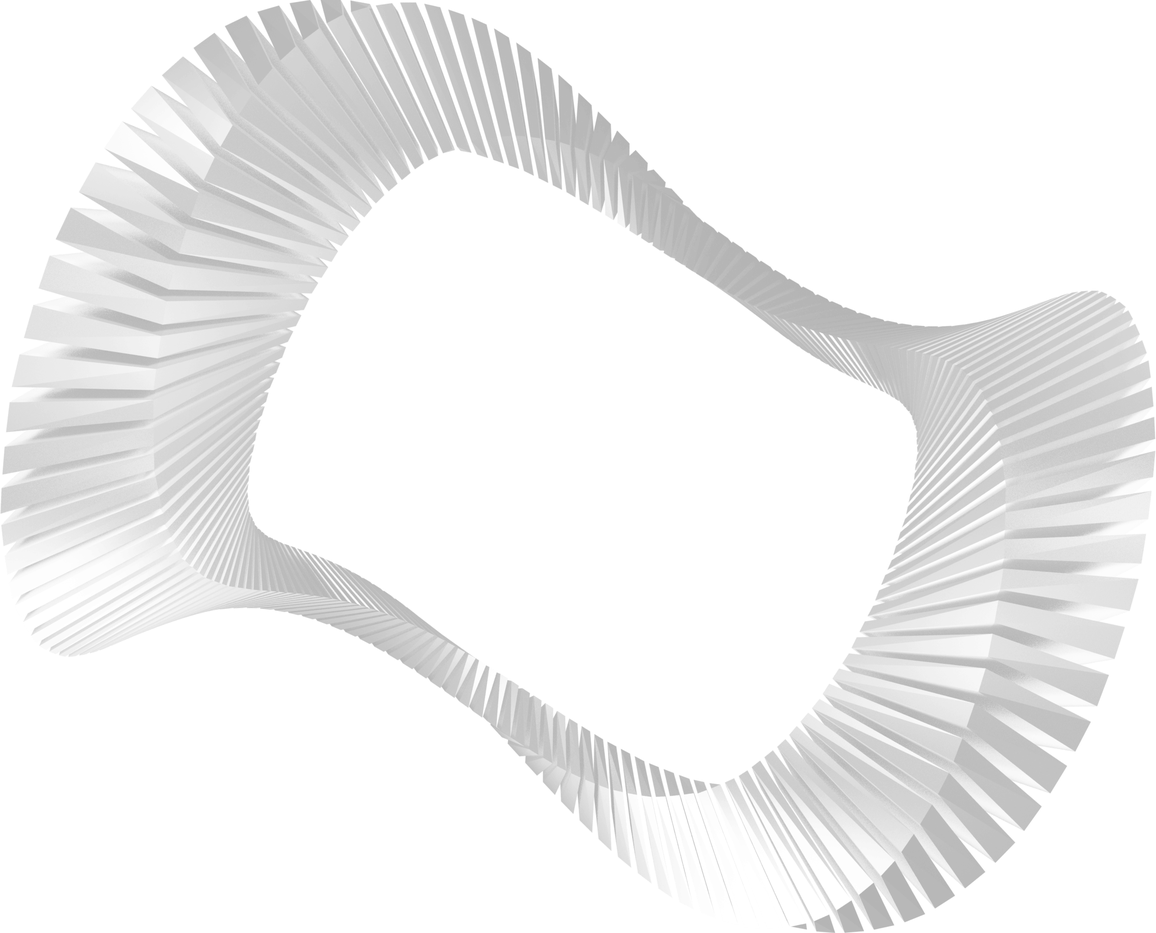
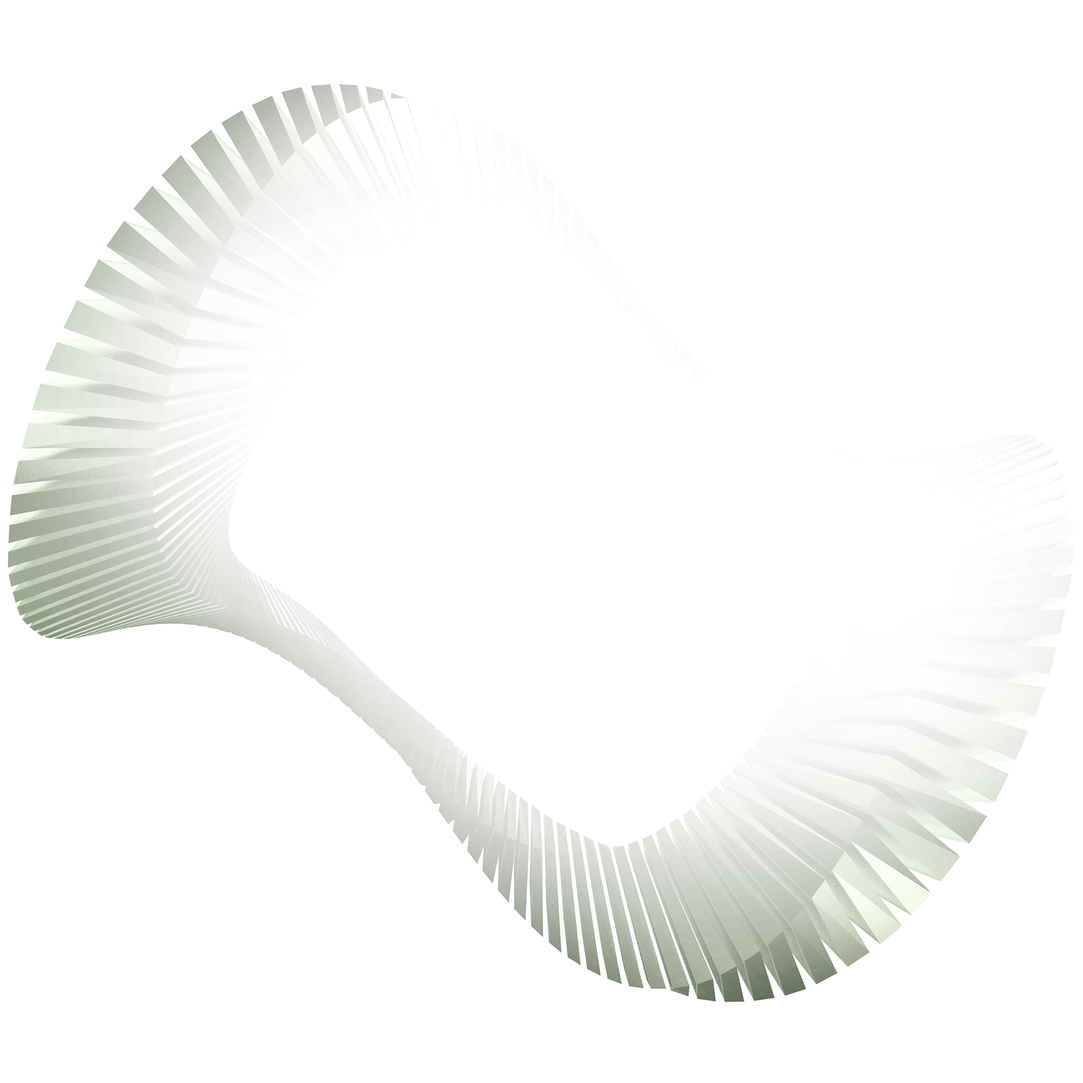
feat: intro section

Changed region(s): [[0.0, 0.0, 1.0, 1.0]]

diff --git a/components/data-programs-logo.vue b/components/data-programs-logo.vue
@@ -1,28 +1,28 @@
 <template>
 <svg width="123" height="30" viewBox="0 0 123 30" fill="none" xmlns="http://www.w3.org/2000/svg">
-<path fill-rule="evenodd" clip-rule="evenodd" d="M12.0241 29.0845L11.3726 29.0845L11.3726 14.0609C11.3726 14.0609 11.3726 14.0609 11.3726 14.0609C11.3726 13.9321 11.3978 13.8045 11.4469 13.6857C11.496 13.5668 11.5679 13.459 11.6585 13.3683C11.7491 13.2777 11.8565 13.2062 11.9747 13.1578C12.0922 13.1096 12.218 13.0854 12.3449 13.0865L15.6779 13.0865C15.8048 13.0854 15.9306 13.1096 16.0481 13.1578C16.1663 13.2062 16.2738 13.2777 16.3643 13.3683C16.4549 13.459 16.5268 13.5668 16.5759 13.6857C16.625 13.8045 16.6503 13.932 16.6503 14.0608C16.6503 14.0608 16.6503 14.0608 16.6503 14.0608L16.6503 17.3938L16.6502 17.3954C16.6477 17.6539 16.5442 17.9009 16.3624 18.0827C16.1807 18.2645 15.9352 18.3665 15.6794 18.3665L15.6786 18.3665L13.1887 18.3533L13.1921 17.695L15.6794 17.7081C15.6797 17.7081 15.6799 17.7081 15.6802 17.7081C15.764 17.7079 15.8445 17.6744 15.9041 17.6148C15.9635 17.5553 15.9975 17.4746 15.9987 17.3901L15.9987 14.0608C15.9987 14.0191 15.9905 13.9777 15.9746 13.9391C15.9587 13.9006 15.9353 13.8656 15.906 13.8362C15.8766 13.8068 15.8417 13.7836 15.8034 13.7679C15.7651 13.7522 15.7241 13.7444 15.6827 13.7448L15.6811 13.7448L12.3417 13.7448L12.3401 13.7448C12.2987 13.7444 12.2577 13.7522 12.2194 13.7679C12.1811 13.7836 12.1462 13.8068 12.1168 13.8362C12.0875 13.8656 12.0641 13.9006 12.0482 13.9391C12.0323 13.9777 12.0241 14.0191 12.0241 14.0608L12.0241 29.0845Z" fill="#CBDDBB"/>
-<path fill-rule="evenodd" clip-rule="evenodd" d="M9.0727 12.0098L9.0727 29.0845L8.4126 29.0845L8.4126 12.0098C8.4126 11.7613 8.4616 11.5153 8.55681 11.2857C8.65202 11.0562 8.79156 10.8476 8.96748 10.6719C9.1434 10.4962 9.35225 10.3568 9.5821 10.2618C9.81195 10.1667 10.0583 10.1177 10.3071 10.1177L17.5683 10.1177C17.8171 10.1177 18.0634 10.1667 18.2933 10.2618C18.5231 10.3568 18.732 10.4962 18.9079 10.6719C19.0838 10.8476 19.2234 11.0562 19.3186 11.2857C19.4138 11.5153 19.4628 11.7613 19.4628 12.0098L19.4628 19.1495C19.4628 19.6531 19.2625 20.136 18.906 20.4921C18.5494 20.8481 18.0659 21.0482 17.5617 21.0482L17.5602 21.0482L13.0503 21.0086L13.056 20.3494L17.5617 20.3889C17.5621 20.3889 17.5626 20.3889 17.563 20.3889C17.8917 20.3886 18.2068 20.258 18.4392 20.0259C18.6719 19.7935 18.8027 19.4782 18.8027 19.1495L18.8027 12.0098C18.8027 11.8479 18.7707 11.6876 18.7087 11.538C18.6467 11.3885 18.5558 11.2526 18.4411 11.1381C18.3265 11.0236 18.1904 10.9328 18.0407 10.8708C17.8909 10.8089 17.7304 10.777 17.5683 10.777L10.3071 10.777C10.145 10.777 9.98448 10.8089 9.83472 10.8708C9.68495 10.9328 9.54887 11.0236 9.43425 11.1381C9.31963 11.2525 9.2287 11.3884 9.16667 11.538C9.10463 11.6876 9.0727 11.8479 9.0727 12.0098Z" fill="#CBDDBB"/>
-<path fill-rule="evenodd" clip-rule="evenodd" d="M6.26714 9.96109L6.26714 29.0845L5.61133 29.0845L5.61133 9.96109C5.61133 9.21529 5.90567 8.50003 6.42961 7.97266C6.95354 7.4453 7.66415 7.14903 8.4051 7.14903L19.4753 7.14903L19.4762 7.14903C20.2163 7.151 20.9255 7.44781 21.4489 7.97459C21.9722 8.50136 22.2671 9.21525 22.2691 9.96022L22.2691 9.96109L22.2691 20.9255L22.2691 20.9264C22.2681 21.2965 22.1947 21.6629 22.0531 22.0045C21.9114 22.3461 21.7044 22.6563 21.4436 22.9173C21.1829 23.1783 20.8736 23.3851 20.5335 23.5259C20.1934 23.6666 19.8291 23.7386 19.4613 23.7376L19.4604 23.7376L13.1243 23.6848L13.1297 23.0247L19.4631 23.0775C19.4634 23.0775 19.4637 23.0775 19.464 23.0775C19.7453 23.0781 20.024 23.023 20.2842 22.9154C20.5446 22.8076 20.7815 22.6492 20.9811 22.4493C21.1808 22.2494 21.3394 22.0119 21.4478 21.7503C21.5563 21.4888 21.6125 21.2084 21.6133 20.925C21.6133 20.9249 21.6133 20.9248 21.6133 20.9246L21.6133 9.96197C21.6133 9.96184 21.6133 9.96172 21.6133 9.9616C21.6117 9.39123 21.3858 8.84467 20.9852 8.44136C20.5845 8.03812 20.0417 7.81084 19.4751 7.80914C19.4749 7.80914 19.4747 7.80914 19.4744 7.80914L8.4051 7.80914C7.83808 7.80914 7.29429 8.03586 6.89334 8.43943C6.49239 8.843 6.26714 9.39036 6.26714 9.96109Z" fill="#CBDDBB"/>
-<path fill-rule="evenodd" clip-rule="evenodd" d="M3.68493 6.88992C3.53247 7.26091 3.4544 7.65844 3.45517 8.05976L3.45518 29.0845L2.80128 29.0845L2.80127 8.06072C2.80037 7.5732 2.89524 7.09029 3.08044 6.63961C3.26569 6.18883 3.53768 5.77915 3.88084 5.43401C4.22401 5.08888 4.6316 4.81506 5.08031 4.62824C5.52902 4.44141 6.01003 4.34525 6.49581 4.34525L21.372 4.34525C21.8578 4.34525 22.3388 4.44141 22.7875 4.62824C23.2362 4.81506 23.6438 5.08887 23.987 5.43401C24.3302 5.77915 24.6022 6.18883 24.7874 6.63961C24.9727 7.09039 25.0675 7.57341 25.0666 8.06103L25.0666 22.7438C25.0666 23.232 24.9705 23.7154 24.784 24.1663C24.5974 24.6172 24.324 25.0267 23.9794 25.3712C23.6348 25.7158 23.2258 25.9887 22.7759 26.1742C22.326 26.3597 21.8441 26.4543 21.3577 26.4524L21.357 26.4524L13.0715 26.3867L13.0766 25.7303L21.3602 25.796C21.3604 25.796 21.3607 25.796 21.3609 25.796C21.7609 25.7975 22.1574 25.7197 22.5275 25.5671C22.8977 25.4144 23.2343 25.1898 23.5179 24.9062C23.8015 24.6226 24.0265 24.2856 24.1801 23.9145C24.3336 23.5435 24.4127 23.1456 24.4127 22.7438L24.4127 8.05976C24.4134 7.65844 24.3354 7.26091 24.1829 6.88991C24.0305 6.51892 23.8066 6.18175 23.5242 5.8977C23.2417 5.61365 22.9063 5.3883 22.537 5.23454C22.1677 5.08078 21.7718 5.00164 21.372 5.00164L6.49581 5.00164C6.09601 5.00164 5.70013 5.08078 5.33084 5.23454C4.96155 5.38829 4.6261 5.61365 4.34367 5.8977C4.06124 6.18175 3.83739 6.51892 3.68493 6.88992Z" fill="#CBDDBB"/>
-<path fill-rule="evenodd" clip-rule="evenodd" d="M0.950929 4.48253C0.753192 4.96392 0.651818 5.47978 0.652611 6.00059L0.652612 29.0254L4.96402e-06 29.0254L3.9576e-06 6.00132C-0.000883917 5.39437 0.117273 4.79321 0.347713 4.2322C0.578186 3.6711 0.916454 3.16118 1.34317 2.73162C1.76989 2.30205 2.27668 1.96126 2.83455 1.72874C3.39242 1.49623 3.99042 1.37654 4.59435 1.37654L23.2785 1.37654C23.8824 1.37654 24.4804 1.49622 25.0383 1.72874C25.5962 1.96126 26.103 2.30205 26.5297 2.73161C26.9564 3.16118 27.2947 3.6711 27.5251 4.2322C27.7556 4.79329 27.8738 5.39455 27.8728 6.00159L27.8729 24.4599C27.8729 25.0684 27.7534 25.6709 27.5213 26.2329C27.2892 26.7949 26.949 27.3053 26.5203 27.735C26.0916 28.1646 25.5827 28.5049 25.0229 28.7365C24.4631 28.9681 23.8633 29.0863 23.2579 29.0845L23.257 29.0844L12.7361 28.9926L12.7417 28.3367L23.2599 28.4285C23.2602 28.4285 23.2605 28.4285 23.2608 28.4285C23.78 28.43 24.2944 28.3285 24.7746 28.1299C25.255 27.9312 25.6917 27.6391 26.0596 27.2704C26.4275 26.9017 26.7194 26.4637 26.9185 25.9814C27.1177 25.4991 27.2202 24.9821 27.2202 24.4599L27.2202 6.00058C27.221 5.47978 27.1197 4.96392 26.9219 4.48253C26.7242 4.00113 26.434 3.56365 26.0679 3.1951C25.7018 2.82655 25.267 2.53417 24.7883 2.33468C24.3097 2.13519 23.7966 2.03251 23.2785 2.03251L4.59435 2.03251C4.07621 2.03251 3.56315 2.13519 3.08452 2.33468C2.6059 2.53417 2.17109 2.82655 1.80499 3.1951C1.43888 3.56364 1.14867 4.00113 0.950929 4.48253Z" fill="#CBDDBB"/>
-<path d="M46.4614 3.86912L43.6322 1.03999C43.5854 0.992179 43.5216 0.96482 43.4546 0.963867H37.2762C37.2429 0.963867 37.2099 0.97043 37.1791 0.983181C37.1483 0.995932 37.1203 1.01462 37.0968 1.03818C37.0732 1.06175 37.0545 1.08972 37.0418 1.1205C37.029 1.15129 37.0225 1.18428 37.0225 1.2176V13.3334C37.0225 13.4007 37.0492 13.4652 37.0968 13.5128C37.1444 13.5604 37.2089 13.5871 37.2762 13.5871H46.2838C46.3511 13.5871 46.4156 13.5604 46.4632 13.5128C46.5108 13.4652 46.5375 13.4007 46.5375 13.3334V4.04674C46.5365 3.97981 46.5092 3.91597 46.4614 3.86912ZM44.5711 11.1132C44.5711 11.2815 44.5042 11.4428 44.3853 11.5618C44.2663 11.6807 44.105 11.7476 43.9367 11.7476H39.5598C39.3926 11.7443 39.2331 11.6764 39.1149 11.5582C38.9966 11.4399 38.9287 11.2805 38.9255 11.1132V3.50121C38.9255 3.33297 38.9923 3.17163 39.1113 3.05267C39.2302 2.9337 39.3916 2.86687 39.5598 2.86687H43.9367C44.105 2.86687 44.2663 2.9337 44.3853 3.05267C44.5042 3.17163 44.5711 3.33297 44.5711 3.50121V11.1132Z" fill="#CBDDBB"/>
-<path d="M59.3384 1.04063L58.7294 1.64959C58.6816 1.69644 58.6543 1.76028 58.6533 1.82721V2.48692C58.6533 2.55421 58.6801 2.61875 58.7276 2.66634C58.7752 2.71392 58.8398 2.74065 58.9071 2.74065H61.7616C61.9298 2.74065 62.0911 2.80748 62.2101 2.92644C62.3291 3.04541 62.3959 3.20675 62.3959 3.37499V13.2706C62.3959 13.3379 62.4226 13.4025 62.4702 13.45C62.5178 13.4976 62.5823 13.5244 62.6496 13.5244H64.0452C64.1125 13.5244 64.177 13.4976 64.2246 13.45C64.2722 13.4025 64.2989 13.3379 64.2989 13.2706V3.37499C64.2989 3.20675 64.3657 3.04541 64.4847 2.92644C64.6037 2.80748 64.765 2.74065 64.9332 2.74065H67.7878C67.855 2.74065 67.9196 2.71392 67.9672 2.66634C68.0148 2.61875 68.0415 2.55421 68.0415 2.48692V1.82721C68.0405 1.76028 68.0132 1.69644 67.9654 1.64959L67.3564 1.04063C67.3096 0.992825 67.2457 0.965466 67.1788 0.964513H59.5287C59.4934 0.963269 59.4583 0.969396 59.4255 0.982503C59.3928 0.99561 59.3631 1.01541 59.3384 1.04063Z" fill="#CBDDBB"/>
-<path d="M57.3685 3.86928L54.5393 1.04014C54.4925 0.992337 54.4286 0.964978 54.3617 0.964025H50.7079C50.6727 0.962781 50.6375 0.968908 50.6048 0.982015C50.572 0.995122 50.5423 1.01492 50.5176 1.04014L47.8154 3.86928C47.7676 3.91613 47.7402 3.97997 47.7393 4.04689V13.3336C47.7393 13.4009 47.766 13.4654 47.8136 13.513C47.8612 13.5606 47.9257 13.5873 47.993 13.5873H49.452C49.5193 13.5873 49.5838 13.5606 49.6314 13.513C49.679 13.4654 49.7057 13.4009 49.7057 13.3336V9.27382H55.2879V13.3336C55.2879 13.4009 55.3146 13.4654 55.3622 13.513C55.4098 13.5606 55.4743 13.5873 55.5416 13.5873H57.1909C57.2582 13.5873 57.3227 13.5606 57.3703 13.513C57.4179 13.4654 57.4446 13.4009 57.4446 13.3336V4.04689C57.4436 3.97997 57.4163 3.91613 57.3685 3.86928ZM49.7057 7.24395V3.5648C49.7057 3.39656 49.7725 3.23522 49.8915 3.11626C50.0105 2.9973 50.1718 2.93046 50.34 2.93046H54.6535C54.8218 2.93046 54.9831 2.9973 55.1021 3.11626C55.221 3.23522 55.2879 3.39656 55.2879 3.5648V7.24395H49.7057Z" fill="#CBDDBB"/>
-<path d="M79.0179 3.86928L76.1887 1.04014C76.1419 0.992337 76.0781 0.964978 76.0111 0.964025H72.3574C72.3221 0.962781 72.287 0.968908 72.2542 0.982015C72.2214 0.995122 72.1917 1.01492 72.1671 1.04014L69.4648 3.86928C69.417 3.91613 69.3896 3.97997 69.3887 4.04689V13.3336C69.3887 13.4009 69.4154 13.4654 69.463 13.513C69.5106 13.5606 69.5751 13.5873 69.6424 13.5873H71.1014C71.1687 13.5873 71.2332 13.5606 71.2808 13.513C71.3284 13.4654 71.3551 13.4009 71.3551 13.3336V9.27382H76.9373V13.3336C76.9373 13.4009 76.964 13.4654 77.0116 13.513C77.0592 13.5606 77.1237 13.5873 77.191 13.5873H78.8403C78.9076 13.5873 78.9721 13.5606 79.0197 13.513C79.0673 13.4654 79.094 13.4009 79.094 13.3336V4.04689C79.0931 3.97997 79.0657 3.91613 79.0179 3.86928ZM71.3551 7.24395V3.5648C71.3551 3.39656 71.4219 3.23522 71.5409 3.11626C71.6599 2.9973 71.8212 2.93046 71.9894 2.93046H76.3029C76.4712 2.93046 76.6325 2.9973 76.7515 3.11626C76.8704 3.23522 76.9373 3.39656 76.9373 3.5648V7.24395H71.3551Z" fill="#CBDDBB"/>
-<g clip-path="url(#clip0_1209_457)">
-<path d="M100.443 19.2207L97.6136 16.3915C97.5667 16.3437 97.5029 16.3164 97.4359 16.3154H93.6807C93.6464 16.3291 93.6159 16.3509 93.5919 16.3789L90.8896 19.2207C90.8418 19.2675 90.8144 19.3314 90.8135 19.3983V28.685C90.8166 28.7513 90.8443 28.814 90.8912 28.861C90.9382 28.9079 91.0009 28.9356 91.0672 28.9387H92.5262C92.5925 28.9356 92.6552 28.9079 92.7022 28.861C92.7491 28.814 92.7768 28.7513 92.7799 28.685V24.6252H98.3621V28.685C98.3652 28.7513 98.3929 28.814 98.4398 28.861C98.4867 28.9079 98.5495 28.9356 98.6158 28.9387H100.265C100.331 28.9356 100.394 28.9079 100.441 28.861C100.488 28.814 100.516 28.7513 100.519 28.685V19.3983C100.518 19.3314 100.49 19.2675 100.443 19.2207ZM92.7799 22.5954V18.9162C92.7789 18.833 92.7953 18.7505 92.8281 18.6741C92.8609 18.5976 92.9093 18.5288 92.9702 18.4722C93.0269 18.4112 93.0956 18.3628 93.1721 18.33C93.2486 18.2973 93.3311 18.2809 93.4143 18.2819H97.7277C97.8109 18.2809 97.8934 18.2973 97.9699 18.33C98.0464 18.3628 98.1151 18.4112 98.1718 18.4722C98.2327 18.5288 98.2811 18.5976 98.3139 18.6741C98.3467 18.7505 98.3631 18.833 98.3621 18.9162V22.5954H92.7799Z" fill="#CBDDBB"/>
-<path d="M46.4614 19.2207L43.6322 16.3915C43.5854 16.3437 43.5216 16.3164 43.4546 16.3154H37.2762C37.2089 16.3154 37.1444 16.3422 37.0968 16.3897C37.0492 16.4373 37.0225 16.5019 37.0225 16.5692V28.685C37.0225 28.7523 37.0492 28.8168 37.0968 28.8644C37.1444 28.912 37.2089 28.9387 37.2762 28.9387H38.7352C38.8025 28.9387 38.867 28.912 38.9146 28.8644C38.9622 28.8168 38.9889 28.7523 38.9889 28.685V24.879C38.9889 24.8117 39.0156 24.7471 39.0632 24.6995C39.1108 24.652 39.1753 24.6252 39.2426 24.6252H46.2838C46.3511 24.6252 46.4156 24.5985 46.4632 24.5509C46.5108 24.5033 46.5375 24.4388 46.5375 24.3715V19.3983C46.5365 19.3314 46.5092 19.2675 46.4614 19.2207ZM44.6979 22.4051C44.6979 22.4723 44.6712 22.5369 44.6236 22.5845C44.576 22.6321 44.5115 22.6588 44.4442 22.6588H39.2426C39.1753 22.6588 39.1108 22.6321 39.0632 22.5845C39.0156 22.5369 38.9889 22.4723 38.9889 22.4051V18.5356C38.9889 18.4683 39.0156 18.4038 39.0632 18.3562C39.1108 18.3086 39.1753 18.2819 39.2426 18.2819H44.4442C44.5115 18.2819 44.576 18.3086 44.6236 18.3562C44.6712 18.4038 44.6979 18.4683 44.6979 18.5356V22.4051Z" fill="#CBDDBB"/>
-<path d="M57.2461 21.9737C57.2939 21.9269 57.3213 21.8631 57.3222 21.7961V19.3349C57.3213 19.268 57.2939 19.2041 57.2461 19.1573L54.5438 16.455C54.497 16.4072 54.4331 16.3799 54.3662 16.3789H48.1243C48.057 16.3789 47.9925 16.4056 47.9449 16.4532C47.8973 16.5008 47.8706 16.5653 47.8706 16.6326V28.7484C47.8706 28.8157 47.8973 28.8803 47.9449 28.9279C47.9925 28.9755 48.057 29.0022 48.1243 29.0022H49.5199C49.5872 29.0022 49.6517 28.9755 49.6993 28.9279C49.7469 28.8803 49.7736 28.8157 49.7736 28.7484V24.8156C49.7736 24.7483 49.8003 24.6837 49.8479 24.6362C49.8955 24.5886 49.9601 24.5618 50.0273 24.5618H51.8289C51.8958 24.5628 51.9596 24.5901 52.0065 24.638L56.2946 28.9261C56.3414 28.9739 56.4053 29.0012 56.4722 29.0022H57.0685C57.1358 29.0022 57.2003 28.9755 57.2479 28.9279C57.2955 28.8803 57.3222 28.8157 57.3222 28.7484V27.2007C57.3213 27.1337 57.2939 27.0699 57.2461 27.0231L54.9625 24.7394C54.9143 24.6937 54.8859 24.6309 54.8835 24.5644C54.8812 24.498 54.905 24.4333 54.9498 24.3842L57.2461 21.9737ZM50.0273 22.6588C49.9601 22.6588 49.8955 22.6321 49.8479 22.5845C49.8003 22.5369 49.7736 22.4724 49.7736 22.4051V18.4722C49.7736 18.4049 49.8003 18.3404 49.8479 18.2928C49.8955 18.2452 49.9601 18.2185 50.0273 18.2185H55.1655C55.2328 18.2185 55.2973 18.2452 55.3449 18.2928C55.3925 18.3404 55.4192 18.4049 55.4192 18.4722V22.4051C55.4192 22.4724 55.3925 22.5369 55.3449 22.5845C55.2973 22.6321 55.2328 22.6588 55.1655 22.6588H50.0273Z" fill="#CBDDBB"/>
-<path d="M89.5376 21.9737C89.5854 21.9269 89.6128 21.8631 89.6137 21.7961V19.3349C89.6128 19.268 89.5854 19.2041 89.5376 19.1573L86.8353 16.455C86.7885 16.4072 86.7246 16.3799 86.6577 16.3789H80.4158C80.3485 16.3789 80.284 16.4056 80.2364 16.4532C80.1888 16.5008 80.1621 16.5653 80.1621 16.6326V28.7484C80.1621 28.8157 80.1888 28.8803 80.2364 28.9279C80.284 28.9755 80.3485 29.0022 80.4158 29.0022H81.8114C81.8787 29.0022 81.9432 28.9755 81.9908 28.9279C82.0384 28.8803 82.0651 28.8157 82.0651 28.7484V24.8156C82.0651 24.7483 82.0918 24.6837 82.1394 24.6362C82.187 24.5886 82.2516 24.5618 82.3189 24.5618H84.1204C84.1873 24.5628 84.2511 24.5901 84.298 24.638L88.5861 28.9261C88.6329 28.9739 88.6968 29.0012 88.7637 29.0022H89.36C89.4273 29.0022 89.4918 28.9755 89.5394 28.9279C89.587 28.8803 89.6137 28.8157 89.6137 28.7484V27.2007C89.6128 27.1337 89.5854 27.0699 89.5376 27.0231L87.254 24.7394C87.2058 24.6937 87.1774 24.6309 87.175 24.5644C87.1727 24.498 87.1965 24.4333 87.2413 24.3842L89.5376 21.9737ZM82.3189 22.6588C82.2516 22.6588 82.187 22.6321 82.1394 22.5845C82.0918 22.5369 82.0651 22.4724 82.0651 22.4051V18.4722C82.0651 18.4049 82.0918 18.3404 82.1394 18.2928C82.187 18.2452 82.2516 18.2185 82.3189 18.2185H87.457C87.5243 18.2185 87.5888 18.2452 87.6364 18.2928C87.684 18.3404 87.7107 18.4049 87.7107 18.4722V22.4051C87.7107 22.4724 87.684 22.5369 87.6364 22.5845C87.5888 22.6321 87.5243 22.6588 87.457 22.6588H82.3189Z" fill="#CBDDBB"/>
-<path d="M68.0263 19.2207L65.1972 16.3915C65.1503 16.3437 65.0865 16.3164 65.0196 16.3154H61.48C61.413 16.3164 61.3492 16.3437 61.3024 16.3915L58.6635 19.0304C58.6157 19.0772 58.5884 19.1411 58.5874 19.208V26.1096C58.5884 26.1765 58.6157 26.2403 58.6635 26.2872L61.3024 28.926C61.3492 28.9738 61.413 29.0012 61.48 29.0021H65.3367C65.4037 29.0012 65.4675 28.9738 65.5143 28.926L68.0263 26.4141C68.0741 26.3672 68.1015 26.3034 68.1024 26.2364V19.3983C68.1015 19.3314 68.0741 19.2675 68.0263 19.2207ZM66.1994 26.782C66.1994 26.8493 66.1727 26.9138 66.1251 26.9614C66.0775 27.009 66.013 27.0357 65.9457 27.0357H60.7441C60.6768 27.0357 60.6123 27.009 60.5647 26.9614C60.5171 26.9138 60.4904 26.8493 60.4904 26.782V18.5356C60.4904 18.4683 60.5171 18.4038 60.5647 18.3562C60.6123 18.3086 60.6768 18.2819 60.7441 18.2819H65.9457C66.013 18.2819 66.0775 18.3086 66.1251 18.3562C66.1727 18.4038 66.1994 18.4683 66.1994 18.5356V26.782Z" fill="#CBDDBB"/>
-<path d="M119.737 24.6252H112.632C112.565 24.6252 112.5 24.5985 112.453 24.5509C112.405 24.5033 112.378 24.4388 112.378 24.3715V19.4617C112.379 19.3948 112.407 19.331 112.455 19.2841L115.347 16.3915C115.394 16.3437 115.458 16.3164 115.525 16.3154H121.767C121.834 16.3154 121.898 16.3422 121.946 16.3897C121.994 16.4373 122.02 16.5019 122.02 16.5692V18.0281C122.02 18.0954 121.994 18.16 121.946 18.2076C121.898 18.2551 121.834 18.2819 121.767 18.2819H114.662C114.595 18.2819 114.53 18.3086 114.483 18.3562C114.435 18.4038 114.408 18.4683 114.408 18.5356V22.4051C114.408 22.4723 114.435 22.5369 114.483 22.5845C114.53 22.6321 114.595 22.6588 114.662 22.6588H121.767C121.834 22.6588 121.898 22.6855 121.946 22.7331C121.994 22.7807 122.02 22.8452 122.02 22.9125V28.7484C122.02 28.8157 121.994 28.8802 121.946 28.9278C121.898 28.9754 121.834 29.0021 121.767 29.0021H112.632C112.565 29.0021 112.5 28.9754 112.453 28.9278C112.405 28.8802 112.378 28.8157 112.378 28.7484V27.3529C112.378 27.2856 112.405 27.221 112.453 27.1735C112.5 27.1259 112.565 27.0991 112.632 27.0991H119.737C119.804 27.0991 119.869 27.0724 119.916 27.0248C119.964 26.9772 119.99 26.9127 119.99 26.8454V24.879C119.99 24.8117 119.964 24.7471 119.916 24.6995C119.869 24.652 119.804 24.6252 119.737 24.6252Z" fill="#CBDDBB"/>
-<path d="M69.3794 27.1286V20.0746C69.3794 19.5364 69.5963 19.0209 69.9812 18.6446L71.651 17.0119C72.0247 16.6465 72.5265 16.4419 73.0492 16.4419H77.0549C78.0708 16.4419 78.8944 17.2655 78.8944 18.2815V19.1695C78.8944 19.695 78.4684 20.121 77.9429 20.121H77.8795C77.389 20.121 76.9914 19.7234 76.9914 19.233C76.9914 18.7425 76.5938 18.3449 76.1034 18.3449H73.2824C72.1778 18.3449 71.2824 19.2403 71.2824 20.3449V25.2256C71.2824 26.3302 72.1778 27.2256 73.2824 27.2256H75.7227C76.4234 27.2256 76.9914 26.6576 76.9914 25.9569C76.9914 25.2563 76.4234 24.6883 75.7228 24.6883H74.1369C73.6114 24.6883 73.1854 24.2623 73.1854 23.7368C73.1854 23.2113 73.6114 22.7852 74.1369 22.7852H76.8944C77.999 22.7852 78.8944 23.6807 78.8944 24.7852V27.1286C78.8944 28.2332 77.999 29.1286 76.8944 29.1286H71.3794C70.2748 29.1286 69.3794 28.2332 69.3794 27.1286Z" fill="#CBDDBB"/>
-<path d="M102.481 29.0022H102.028C101.981 29.0023 101.935 28.9928 101.891 28.9743C101.848 28.9558 101.809 28.9288 101.776 28.8948C101.744 28.8608 101.718 28.8206 101.702 28.7766C101.686 28.7326 101.678 28.6857 101.681 28.6389L101.733 16.6488C101.733 16.557 101.769 16.469 101.835 16.4041C101.9 16.3392 101.988 16.3027 102.081 16.3027H103.298C103.365 16.3038 103.43 16.324 103.485 16.3608C103.541 16.3976 103.584 16.4495 103.611 16.5104L106.255 21.9604C106.283 22.0189 106.328 22.0682 106.383 22.1028C106.438 22.1373 106.502 22.1556 106.568 22.1556C106.633 22.1556 106.697 22.1373 106.752 22.1028C106.808 22.0682 106.852 22.0189 106.881 21.9604L109.002 17.064L109.229 16.5104C109.26 16.4494 109.307 16.3979 109.365 16.3614C109.423 16.3249 109.49 16.3046 109.559 16.3027H110.898C110.99 16.3027 111.079 16.3392 111.144 16.4041C111.209 16.469 111.246 16.557 111.246 16.6488V28.6562C111.246 28.7479 111.209 28.836 111.144 28.9009C111.079 28.9657 110.99 29.0022 110.898 29.0022H110.307C110.257 29.0006 110.209 28.9891 110.164 28.9683C110.119 28.9475 110.079 28.9178 110.046 28.8811L109.42 28.2063C109.366 28.1368 109.335 28.052 109.333 27.9641V21.5798C109.332 21.5411 109.317 21.504 109.292 21.4744C109.267 21.4448 109.233 21.4244 109.195 21.4165C109.157 21.4085 109.117 21.4134 109.082 21.4305C109.048 21.4475 109.019 21.4757 109.002 21.5106L107.507 24.3653C107.482 24.4229 107.441 24.4718 107.388 24.5058C107.336 24.5397 107.274 24.5571 107.211 24.5557H105.715C105.653 24.556 105.591 24.5402 105.536 24.5099C105.481 24.4796 105.435 24.4358 105.402 24.3826L103.855 21.5452C103.838 21.5103 103.81 21.4821 103.775 21.4651C103.74 21.448 103.7 21.4431 103.662 21.4511C103.624 21.459 103.59 21.4794 103.565 21.509C103.54 21.5386 103.525 21.5757 103.524 21.6144V27.9641C103.523 28.0554 103.485 28.1424 103.42 28.2063L102.742 28.8984C102.668 28.9608 102.577 28.9973 102.481 29.0022Z" fill="#CBDDBB"/>
-</g>
-<defs>
-<clipPath id="clip0_1209_457">
-<rect width="85.001" height="12.6867" fill="white" transform="translate(37.0225 16.3154)"/>
-</clipPath>
-</defs>
+    <path fill-rule="evenodd" clip-rule="evenodd" d="M12.0241 29.0845L11.3726 29.0845L11.3726 14.0609C11.3726 14.0609 11.3726 14.0609 11.3726 14.0609C11.3726 13.9321 11.3978 13.8045 11.4469 13.6857C11.496 13.5668 11.5679 13.459 11.6585 13.3683C11.7491 13.2777 11.8565 13.2062 11.9747 13.1578C12.0922 13.1096 12.218 13.0854 12.3449 13.0865L15.6779 13.0865C15.8048 13.0854 15.9306 13.1096 16.0481 13.1578C16.1663 13.2062 16.2738 13.2777 16.3643 13.3683C16.4549 13.459 16.5268 13.5668 16.5759 13.6857C16.625 13.8045 16.6503 13.932 16.6503 14.0608C16.6503 14.0608 16.6503 14.0608 16.6503 14.0608L16.6503 17.3938L16.6502 17.3954C16.6477 17.6539 16.5442 17.9009 16.3624 18.0827C16.1807 18.2645 15.9352 18.3665 15.6794 18.3665L15.6786 18.3665L13.1887 18.3533L13.1921 17.695L15.6794 17.7081C15.6797 17.7081 15.6799 17.7081 15.6802 17.7081C15.764 17.7079 15.8445 17.6744 15.9041 17.6148C15.9635 17.5553 15.9975 17.4746 15.9987 17.3901L15.9987 14.0608C15.9987 14.0191 15.9905 13.9777 15.9746 13.9391C15.9587 13.9006 15.9353 13.8656 15.906 13.8362C15.8766 13.8068 15.8417 13.7836 15.8034 13.7679C15.7651 13.7522 15.7241 13.7444 15.6827 13.7448L15.6811 13.7448L12.3417 13.7448L12.3401 13.7448C12.2987 13.7444 12.2577 13.7522 12.2194 13.7679C12.1811 13.7836 12.1462 13.8068 12.1168 13.8362C12.0875 13.8656 12.0641 13.9006 12.0482 13.9391C12.0323 13.9777 12.0241 14.0191 12.0241 14.0608L12.0241 29.0845Z" fill="#CBDDBB"/>
+    <path fill-rule="evenodd" clip-rule="evenodd" d="M9.0727 12.0098L9.0727 29.0845L8.4126 29.0845L8.4126 12.0098C8.4126 11.7613 8.4616 11.5153 8.55681 11.2857C8.65202 11.0562 8.79156 10.8476 8.96748 10.6719C9.1434 10.4962 9.35225 10.3568 9.5821 10.2618C9.81195 10.1667 10.0583 10.1177 10.3071 10.1177L17.5683 10.1177C17.8171 10.1177 18.0634 10.1667 18.2933 10.2618C18.5231 10.3568 18.732 10.4962 18.9079 10.6719C19.0838 10.8476 19.2234 11.0562 19.3186 11.2857C19.4138 11.5153 19.4628 11.7613 19.4628 12.0098L19.4628 19.1495C19.4628 19.6531 19.2625 20.136 18.906 20.4921C18.5494 20.8481 18.0659 21.0482 17.5617 21.0482L17.5602 21.0482L13.0503 21.0086L13.056 20.3494L17.5617 20.3889C17.5621 20.3889 17.5626 20.3889 17.563 20.3889C17.8917 20.3886 18.2068 20.258 18.4392 20.0259C18.6719 19.7935 18.8027 19.4782 18.8027 19.1495L18.8027 12.0098C18.8027 11.8479 18.7707 11.6876 18.7087 11.538C18.6467 11.3885 18.5558 11.2526 18.4411 11.1381C18.3265 11.0236 18.1904 10.9328 18.0407 10.8708C17.8909 10.8089 17.7304 10.777 17.5683 10.777L10.3071 10.777C10.145 10.777 9.98448 10.8089 9.83472 10.8708C9.68495 10.9328 9.54887 11.0236 9.43425 11.1381C9.31963 11.2525 9.2287 11.3884 9.16667 11.538C9.10463 11.6876 9.0727 11.8479 9.0727 12.0098Z" fill="#CBDDBB"/>
+    <path fill-rule="evenodd" clip-rule="evenodd" d="M6.26714 9.96109L6.26714 29.0845L5.61133 29.0845L5.61133 9.96109C5.61133 9.21529 5.90567 8.50003 6.42961 7.97266C6.95354 7.4453 7.66415 7.14903 8.4051 7.14903L19.4753 7.14903L19.4762 7.14903C20.2163 7.151 20.9255 7.44781 21.4489 7.97459C21.9722 8.50136 22.2671 9.21525 22.2691 9.96022L22.2691 9.96109L22.2691 20.9255L22.2691 20.9264C22.2681 21.2965 22.1947 21.6629 22.0531 22.0045C21.9114 22.3461 21.7044 22.6563 21.4436 22.9173C21.1829 23.1783 20.8736 23.3851 20.5335 23.5259C20.1934 23.6666 19.8291 23.7386 19.4613 23.7376L19.4604 23.7376L13.1243 23.6848L13.1297 23.0247L19.4631 23.0775C19.4634 23.0775 19.4637 23.0775 19.464 23.0775C19.7453 23.0781 20.024 23.023 20.2842 22.9154C20.5446 22.8076 20.7815 22.6492 20.9811 22.4493C21.1808 22.2494 21.3394 22.0119 21.4478 21.7503C21.5563 21.4888 21.6125 21.2084 21.6133 20.925C21.6133 20.9249 21.6133 20.9248 21.6133 20.9246L21.6133 9.96197C21.6133 9.96184 21.6133 9.96172 21.6133 9.9616C21.6117 9.39123 21.3858 8.84467 20.9852 8.44136C20.5845 8.03812 20.0417 7.81084 19.4751 7.80914C19.4749 7.80914 19.4747 7.80914 19.4744 7.80914L8.4051 7.80914C7.83808 7.80914 7.29429 8.03586 6.89334 8.43943C6.49239 8.843 6.26714 9.39036 6.26714 9.96109Z" fill="#CBDDBB"/>
+    <path fill-rule="evenodd" clip-rule="evenodd" d="M3.68493 6.88992C3.53247 7.26091 3.4544 7.65844 3.45517 8.05976L3.45518 29.0845L2.80128 29.0845L2.80127 8.06072C2.80037 7.5732 2.89524 7.09029 3.08044 6.63961C3.26569 6.18883 3.53768 5.77915 3.88084 5.43401C4.22401 5.08888 4.6316 4.81506 5.08031 4.62824C5.52902 4.44141 6.01003 4.34525 6.49581 4.34525L21.372 4.34525C21.8578 4.34525 22.3388 4.44141 22.7875 4.62824C23.2362 4.81506 23.6438 5.08887 23.987 5.43401C24.3302 5.77915 24.6022 6.18883 24.7874 6.63961C24.9727 7.09039 25.0675 7.57341 25.0666 8.06103L25.0666 22.7438C25.0666 23.232 24.9705 23.7154 24.784 24.1663C24.5974 24.6172 24.324 25.0267 23.9794 25.3712C23.6348 25.7158 23.2258 25.9887 22.7759 26.1742C22.326 26.3597 21.8441 26.4543 21.3577 26.4524L21.357 26.4524L13.0715 26.3867L13.0766 25.7303L21.3602 25.796C21.3604 25.796 21.3607 25.796 21.3609 25.796C21.7609 25.7975 22.1574 25.7197 22.5275 25.5671C22.8977 25.4144 23.2343 25.1898 23.5179 24.9062C23.8015 24.6226 24.0265 24.2856 24.1801 23.9145C24.3336 23.5435 24.4127 23.1456 24.4127 22.7438L24.4127 8.05976C24.4134 7.65844 24.3354 7.26091 24.1829 6.88991C24.0305 6.51892 23.8066 6.18175 23.5242 5.8977C23.2417 5.61365 22.9063 5.3883 22.537 5.23454C22.1677 5.08078 21.7718 5.00164 21.372 5.00164L6.49581 5.00164C6.09601 5.00164 5.70013 5.08078 5.33084 5.23454C4.96155 5.38829 4.6261 5.61365 4.34367 5.8977C4.06124 6.18175 3.83739 6.51892 3.68493 6.88992Z" fill="#CBDDBB"/>
+    <path fill-rule="evenodd" clip-rule="evenodd" d="M0.950929 4.48253C0.753192 4.96392 0.651818 5.47978 0.652611 6.00059L0.652612 29.0254L4.96402e-06 29.0254L3.9576e-06 6.00132C-0.000883917 5.39437 0.117273 4.79321 0.347713 4.2322C0.578186 3.6711 0.916454 3.16118 1.34317 2.73162C1.76989 2.30205 2.27668 1.96126 2.83455 1.72874C3.39242 1.49623 3.99042 1.37654 4.59435 1.37654L23.2785 1.37654C23.8824 1.37654 24.4804 1.49622 25.0383 1.72874C25.5962 1.96126 26.103 2.30205 26.5297 2.73161C26.9564 3.16118 27.2947 3.6711 27.5251 4.2322C27.7556 4.79329 27.8738 5.39455 27.8728 6.00159L27.8729 24.4599C27.8729 25.0684 27.7534 25.6709 27.5213 26.2329C27.2892 26.7949 26.949 27.3053 26.5203 27.735C26.0916 28.1646 25.5827 28.5049 25.0229 28.7365C24.4631 28.9681 23.8633 29.0863 23.2579 29.0845L23.257 29.0844L12.7361 28.9926L12.7417 28.3367L23.2599 28.4285C23.2602 28.4285 23.2605 28.4285 23.2608 28.4285C23.78 28.43 24.2944 28.3285 24.7746 28.1299C25.255 27.9312 25.6917 27.6391 26.0596 27.2704C26.4275 26.9017 26.7194 26.4637 26.9185 25.9814C27.1177 25.4991 27.2202 24.9821 27.2202 24.4599L27.2202 6.00058C27.221 5.47978 27.1197 4.96392 26.9219 4.48253C26.7242 4.00113 26.434 3.56365 26.0679 3.1951C25.7018 2.82655 25.267 2.53417 24.7883 2.33468C24.3097 2.13519 23.7966 2.03251 23.2785 2.03251L4.59435 2.03251C4.07621 2.03251 3.56315 2.13519 3.08452 2.33468C2.6059 2.53417 2.17109 2.82655 1.80499 3.1951C1.43888 3.56364 1.14867 4.00113 0.950929 4.48253Z" fill="#CBDDBB"/>
+    <path d="M46.4614 3.86912L43.6322 1.03999C43.5854 0.992179 43.5216 0.96482 43.4546 0.963867H37.2762C37.2429 0.963867 37.2099 0.97043 37.1791 0.983181C37.1483 0.995932 37.1203 1.01462 37.0968 1.03818C37.0732 1.06175 37.0545 1.08972 37.0418 1.1205C37.029 1.15129 37.0225 1.18428 37.0225 1.2176V13.3334C37.0225 13.4007 37.0492 13.4652 37.0968 13.5128C37.1444 13.5604 37.2089 13.5871 37.2762 13.5871H46.2838C46.3511 13.5871 46.4156 13.5604 46.4632 13.5128C46.5108 13.4652 46.5375 13.4007 46.5375 13.3334V4.04674C46.5365 3.97981 46.5092 3.91597 46.4614 3.86912ZM44.5711 11.1132C44.5711 11.2815 44.5042 11.4428 44.3853 11.5618C44.2663 11.6807 44.105 11.7476 43.9367 11.7476H39.5598C39.3926 11.7443 39.2331 11.6764 39.1149 11.5582C38.9966 11.4399 38.9287 11.2805 38.9255 11.1132V3.50121C38.9255 3.33297 38.9923 3.17163 39.1113 3.05267C39.2302 2.9337 39.3916 2.86687 39.5598 2.86687H43.9367C44.105 2.86687 44.2663 2.9337 44.3853 3.05267C44.5042 3.17163 44.5711 3.33297 44.5711 3.50121V11.1132Z" fill="#CBDDBB"/>
+    <path d="M59.3384 1.04063L58.7294 1.64959C58.6816 1.69644 58.6543 1.76028 58.6533 1.82721V2.48692C58.6533 2.55421 58.6801 2.61875 58.7276 2.66634C58.7752 2.71392 58.8398 2.74065 58.9071 2.74065H61.7616C61.9298 2.74065 62.0911 2.80748 62.2101 2.92644C62.3291 3.04541 62.3959 3.20675 62.3959 3.37499V13.2706C62.3959 13.3379 62.4226 13.4025 62.4702 13.45C62.5178 13.4976 62.5823 13.5244 62.6496 13.5244H64.0452C64.1125 13.5244 64.177 13.4976 64.2246 13.45C64.2722 13.4025 64.2989 13.3379 64.2989 13.2706V3.37499C64.2989 3.20675 64.3657 3.04541 64.4847 2.92644C64.6037 2.80748 64.765 2.74065 64.9332 2.74065H67.7878C67.855 2.74065 67.9196 2.71392 67.9672 2.66634C68.0148 2.61875 68.0415 2.55421 68.0415 2.48692V1.82721C68.0405 1.76028 68.0132 1.69644 67.9654 1.64959L67.3564 1.04063C67.3096 0.992825 67.2457 0.965466 67.1788 0.964513H59.5287C59.4934 0.963269 59.4583 0.969396 59.4255 0.982503C59.3928 0.99561 59.3631 1.01541 59.3384 1.04063Z" fill="#CBDDBB"/>
+    <path d="M57.3685 3.86928L54.5393 1.04014C54.4925 0.992337 54.4286 0.964978 54.3617 0.964025H50.7079C50.6727 0.962781 50.6375 0.968908 50.6048 0.982015C50.572 0.995122 50.5423 1.01492 50.5176 1.04014L47.8154 3.86928C47.7676 3.91613 47.7402 3.97997 47.7393 4.04689V13.3336C47.7393 13.4009 47.766 13.4654 47.8136 13.513C47.8612 13.5606 47.9257 13.5873 47.993 13.5873H49.452C49.5193 13.5873 49.5838 13.5606 49.6314 13.513C49.679 13.4654 49.7057 13.4009 49.7057 13.3336V9.27382H55.2879V13.3336C55.2879 13.4009 55.3146 13.4654 55.3622 13.513C55.4098 13.5606 55.4743 13.5873 55.5416 13.5873H57.1909C57.2582 13.5873 57.3227 13.5606 57.3703 13.513C57.4179 13.4654 57.4446 13.4009 57.4446 13.3336V4.04689C57.4436 3.97997 57.4163 3.91613 57.3685 3.86928ZM49.7057 7.24395V3.5648C49.7057 3.39656 49.7725 3.23522 49.8915 3.11626C50.0105 2.9973 50.1718 2.93046 50.34 2.93046H54.6535C54.8218 2.93046 54.9831 2.9973 55.1021 3.11626C55.221 3.23522 55.2879 3.39656 55.2879 3.5648V7.24395H49.7057Z" fill="#CBDDBB"/>
+    <path d="M79.0179 3.86928L76.1887 1.04014C76.1419 0.992337 76.0781 0.964978 76.0111 0.964025H72.3574C72.3221 0.962781 72.287 0.968908 72.2542 0.982015C72.2214 0.995122 72.1917 1.01492 72.1671 1.04014L69.4648 3.86928C69.417 3.91613 69.3896 3.97997 69.3887 4.04689V13.3336C69.3887 13.4009 69.4154 13.4654 69.463 13.513C69.5106 13.5606 69.5751 13.5873 69.6424 13.5873H71.1014C71.1687 13.5873 71.2332 13.5606 71.2808 13.513C71.3284 13.4654 71.3551 13.4009 71.3551 13.3336V9.27382H76.9373V13.3336C76.9373 13.4009 76.964 13.4654 77.0116 13.513C77.0592 13.5606 77.1237 13.5873 77.191 13.5873H78.8403C78.9076 13.5873 78.9721 13.5606 79.0197 13.513C79.0673 13.4654 79.094 13.4009 79.094 13.3336V4.04689C79.0931 3.97997 79.0657 3.91613 79.0179 3.86928ZM71.3551 7.24395V3.5648C71.3551 3.39656 71.4219 3.23522 71.5409 3.11626C71.6599 2.9973 71.8212 2.93046 71.9894 2.93046H76.3029C76.4712 2.93046 76.6325 2.9973 76.7515 3.11626C76.8704 3.23522 76.9373 3.39656 76.9373 3.5648V7.24395H71.3551Z" fill="#CBDDBB"/>
+  <g clip-path="url(#clip0_1209_457)">
+    <path d="M100.443 19.2207L97.6136 16.3915C97.5667 16.3437 97.5029 16.3164 97.4359 16.3154H93.6807C93.6464 16.3291 93.6159 16.3509 93.5919 16.3789L90.8896 19.2207C90.8418 19.2675 90.8144 19.3314 90.8135 19.3983V28.685C90.8166 28.7513 90.8443 28.814 90.8912 28.861C90.9382 28.9079 91.0009 28.9356 91.0672 28.9387H92.5262C92.5925 28.9356 92.6552 28.9079 92.7022 28.861C92.7491 28.814 92.7768 28.7513 92.7799 28.685V24.6252H98.3621V28.685C98.3652 28.7513 98.3929 28.814 98.4398 28.861C98.4867 28.9079 98.5495 28.9356 98.6158 28.9387H100.265C100.331 28.9356 100.394 28.9079 100.441 28.861C100.488 28.814 100.516 28.7513 100.519 28.685V19.3983C100.518 19.3314 100.49 19.2675 100.443 19.2207ZM92.7799 22.5954V18.9162C92.7789 18.833 92.7953 18.7505 92.8281 18.6741C92.8609 18.5976 92.9093 18.5288 92.9702 18.4722C93.0269 18.4112 93.0956 18.3628 93.1721 18.33C93.2486 18.2973 93.3311 18.2809 93.4143 18.2819H97.7277C97.8109 18.2809 97.8934 18.2973 97.9699 18.33C98.0464 18.3628 98.1151 18.4112 98.1718 18.4722C98.2327 18.5288 98.2811 18.5976 98.3139 18.6741C98.3467 18.7505 98.3631 18.833 98.3621 18.9162V22.5954H92.7799Z" fill="#CBDDBB"/>
+    <path d="M46.4614 19.2207L43.6322 16.3915C43.5854 16.3437 43.5216 16.3164 43.4546 16.3154H37.2762C37.2089 16.3154 37.1444 16.3422 37.0968 16.3897C37.0492 16.4373 37.0225 16.5019 37.0225 16.5692V28.685C37.0225 28.7523 37.0492 28.8168 37.0968 28.8644C37.1444 28.912 37.2089 28.9387 37.2762 28.9387H38.7352C38.8025 28.9387 38.867 28.912 38.9146 28.8644C38.9622 28.8168 38.9889 28.7523 38.9889 28.685V24.879C38.9889 24.8117 39.0156 24.7471 39.0632 24.6995C39.1108 24.652 39.1753 24.6252 39.2426 24.6252H46.2838C46.3511 24.6252 46.4156 24.5985 46.4632 24.5509C46.5108 24.5033 46.5375 24.4388 46.5375 24.3715V19.3983C46.5365 19.3314 46.5092 19.2675 46.4614 19.2207ZM44.6979 22.4051C44.6979 22.4723 44.6712 22.5369 44.6236 22.5845C44.576 22.6321 44.5115 22.6588 44.4442 22.6588H39.2426C39.1753 22.6588 39.1108 22.6321 39.0632 22.5845C39.0156 22.5369 38.9889 22.4723 38.9889 22.4051V18.5356C38.9889 18.4683 39.0156 18.4038 39.0632 18.3562C39.1108 18.3086 39.1753 18.2819 39.2426 18.2819H44.4442C44.5115 18.2819 44.576 18.3086 44.6236 18.3562C44.6712 18.4038 44.6979 18.4683 44.6979 18.5356V22.4051Z" fill="#CBDDBB"/>
+    <path d="M57.2461 21.9737C57.2939 21.9269 57.3213 21.8631 57.3222 21.7961V19.3349C57.3213 19.268 57.2939 19.2041 57.2461 19.1573L54.5438 16.455C54.497 16.4072 54.4331 16.3799 54.3662 16.3789H48.1243C48.057 16.3789 47.9925 16.4056 47.9449 16.4532C47.8973 16.5008 47.8706 16.5653 47.8706 16.6326V28.7484C47.8706 28.8157 47.8973 28.8803 47.9449 28.9279C47.9925 28.9755 48.057 29.0022 48.1243 29.0022H49.5199C49.5872 29.0022 49.6517 28.9755 49.6993 28.9279C49.7469 28.8803 49.7736 28.8157 49.7736 28.7484V24.8156C49.7736 24.7483 49.8003 24.6837 49.8479 24.6362C49.8955 24.5886 49.9601 24.5618 50.0273 24.5618H51.8289C51.8958 24.5628 51.9596 24.5901 52.0065 24.638L56.2946 28.9261C56.3414 28.9739 56.4053 29.0012 56.4722 29.0022H57.0685C57.1358 29.0022 57.2003 28.9755 57.2479 28.9279C57.2955 28.8803 57.3222 28.8157 57.3222 28.7484V27.2007C57.3213 27.1337 57.2939 27.0699 57.2461 27.0231L54.9625 24.7394C54.9143 24.6937 54.8859 24.6309 54.8835 24.5644C54.8812 24.498 54.905 24.4333 54.9498 24.3842L57.2461 21.9737ZM50.0273 22.6588C49.9601 22.6588 49.8955 22.6321 49.8479 22.5845C49.8003 22.5369 49.7736 22.4724 49.7736 22.4051V18.4722C49.7736 18.4049 49.8003 18.3404 49.8479 18.2928C49.8955 18.2452 49.9601 18.2185 50.0273 18.2185H55.1655C55.2328 18.2185 55.2973 18.2452 55.3449 18.2928C55.3925 18.3404 55.4192 18.4049 55.4192 18.4722V22.4051C55.4192 22.4724 55.3925 22.5369 55.3449 22.5845C55.2973 22.6321 55.2328 22.6588 55.1655 22.6588H50.0273Z" fill="#CBDDBB"/>
+    <path d="M89.5376 21.9737C89.5854 21.9269 89.6128 21.8631 89.6137 21.7961V19.3349C89.6128 19.268 89.5854 19.2041 89.5376 19.1573L86.8353 16.455C86.7885 16.4072 86.7246 16.3799 86.6577 16.3789H80.4158C80.3485 16.3789 80.284 16.4056 80.2364 16.4532C80.1888 16.5008 80.1621 16.5653 80.1621 16.6326V28.7484C80.1621 28.8157 80.1888 28.8803 80.2364 28.9279C80.284 28.9755 80.3485 29.0022 80.4158 29.0022H81.8114C81.8787 29.0022 81.9432 28.9755 81.9908 28.9279C82.0384 28.8803 82.0651 28.8157 82.0651 28.7484V24.8156C82.0651 24.7483 82.0918 24.6837 82.1394 24.6362C82.187 24.5886 82.2516 24.5618 82.3189 24.5618H84.1204C84.1873 24.5628 84.2511 24.5901 84.298 24.638L88.5861 28.9261C88.6329 28.9739 88.6968 29.0012 88.7637 29.0022H89.36C89.4273 29.0022 89.4918 28.9755 89.5394 28.9279C89.587 28.8803 89.6137 28.8157 89.6137 28.7484V27.2007C89.6128 27.1337 89.5854 27.0699 89.5376 27.0231L87.254 24.7394C87.2058 24.6937 87.1774 24.6309 87.175 24.5644C87.1727 24.498 87.1965 24.4333 87.2413 24.3842L89.5376 21.9737ZM82.3189 22.6588C82.2516 22.6588 82.187 22.6321 82.1394 22.5845C82.0918 22.5369 82.0651 22.4724 82.0651 22.4051V18.4722C82.0651 18.4049 82.0918 18.3404 82.1394 18.2928C82.187 18.2452 82.2516 18.2185 82.3189 18.2185H87.457C87.5243 18.2185 87.5888 18.2452 87.6364 18.2928C87.684 18.3404 87.7107 18.4049 87.7107 18.4722V22.4051C87.7107 22.4724 87.684 22.5369 87.6364 22.5845C87.5888 22.6321 87.5243 22.6588 87.457 22.6588H82.3189Z" fill="#CBDDBB"/>
+    <path d="M68.0263 19.2207L65.1972 16.3915C65.1503 16.3437 65.0865 16.3164 65.0196 16.3154H61.48C61.413 16.3164 61.3492 16.3437 61.3024 16.3915L58.6635 19.0304C58.6157 19.0772 58.5884 19.1411 58.5874 19.208V26.1096C58.5884 26.1765 58.6157 26.2403 58.6635 26.2872L61.3024 28.926C61.3492 28.9738 61.413 29.0012 61.48 29.0021H65.3367C65.4037 29.0012 65.4675 28.9738 65.5143 28.926L68.0263 26.4141C68.0741 26.3672 68.1015 26.3034 68.1024 26.2364V19.3983C68.1015 19.3314 68.0741 19.2675 68.0263 19.2207ZM66.1994 26.782C66.1994 26.8493 66.1727 26.9138 66.1251 26.9614C66.0775 27.009 66.013 27.0357 65.9457 27.0357H60.7441C60.6768 27.0357 60.6123 27.009 60.5647 26.9614C60.5171 26.9138 60.4904 26.8493 60.4904 26.782V18.5356C60.4904 18.4683 60.5171 18.4038 60.5647 18.3562C60.6123 18.3086 60.6768 18.2819 60.7441 18.2819H65.9457C66.013 18.2819 66.0775 18.3086 66.1251 18.3562C66.1727 18.4038 66.1994 18.4683 66.1994 18.5356V26.782Z" fill="#CBDDBB"/>
+    <path d="M119.737 24.6252H112.632C112.565 24.6252 112.5 24.5985 112.453 24.5509C112.405 24.5033 112.378 24.4388 112.378 24.3715V19.4617C112.379 19.3948 112.407 19.331 112.455 19.2841L115.347 16.3915C115.394 16.3437 115.458 16.3164 115.525 16.3154H121.767C121.834 16.3154 121.898 16.3422 121.946 16.3897C121.994 16.4373 122.02 16.5019 122.02 16.5692V18.0281C122.02 18.0954 121.994 18.16 121.946 18.2076C121.898 18.2551 121.834 18.2819 121.767 18.2819H114.662C114.595 18.2819 114.53 18.3086 114.483 18.3562C114.435 18.4038 114.408 18.4683 114.408 18.5356V22.4051C114.408 22.4723 114.435 22.5369 114.483 22.5845C114.53 22.6321 114.595 22.6588 114.662 22.6588H121.767C121.834 22.6588 121.898 22.6855 121.946 22.7331C121.994 22.7807 122.02 22.8452 122.02 22.9125V28.7484C122.02 28.8157 121.994 28.8802 121.946 28.9278C121.898 28.9754 121.834 29.0021 121.767 29.0021H112.632C112.565 29.0021 112.5 28.9754 112.453 28.9278C112.405 28.8802 112.378 28.8157 112.378 28.7484V27.3529C112.378 27.2856 112.405 27.221 112.453 27.1735C112.5 27.1259 112.565 27.0991 112.632 27.0991H119.737C119.804 27.0991 119.869 27.0724 119.916 27.0248C119.964 26.9772 119.99 26.9127 119.99 26.8454V24.879C119.99 24.8117 119.964 24.7471 119.916 24.6995C119.869 24.652 119.804 24.6252 119.737 24.6252Z" fill="#CBDDBB"/>
+    <path d="M69.3794 27.1286V20.0746C69.3794 19.5364 69.5963 19.0209 69.9812 18.6446L71.651 17.0119C72.0247 16.6465 72.5265 16.4419 73.0492 16.4419H77.0549C78.0708 16.4419 78.8944 17.2655 78.8944 18.2815V19.1695C78.8944 19.695 78.4684 20.121 77.9429 20.121H77.8795C77.389 20.121 76.9914 19.7234 76.9914 19.233C76.9914 18.7425 76.5938 18.3449 76.1034 18.3449H73.2824C72.1778 18.3449 71.2824 19.2403 71.2824 20.3449V25.2256C71.2824 26.3302 72.1778 27.2256 73.2824 27.2256H75.7227C76.4234 27.2256 76.9914 26.6576 76.9914 25.9569C76.9914 25.2563 76.4234 24.6883 75.7228 24.6883H74.1369C73.6114 24.6883 73.1854 24.2623 73.1854 23.7368C73.1854 23.2113 73.6114 22.7852 74.1369 22.7852H76.8944C77.999 22.7852 78.8944 23.6807 78.8944 24.7852V27.1286C78.8944 28.2332 77.999 29.1286 76.8944 29.1286H71.3794C70.2748 29.1286 69.3794 28.2332 69.3794 27.1286Z" fill="#CBDDBB"/>
+    <path d="M102.481 29.0022H102.028C101.981 29.0023 101.935 28.9928 101.891 28.9743C101.848 28.9558 101.809 28.9288 101.776 28.8948C101.744 28.8608 101.718 28.8206 101.702 28.7766C101.686 28.7326 101.678 28.6857 101.681 28.6389L101.733 16.6488C101.733 16.557 101.769 16.469 101.835 16.4041C101.9 16.3392 101.988 16.3027 102.081 16.3027H103.298C103.365 16.3038 103.43 16.324 103.485 16.3608C103.541 16.3976 103.584 16.4495 103.611 16.5104L106.255 21.9604C106.283 22.0189 106.328 22.0682 106.383 22.1028C106.438 22.1373 106.502 22.1556 106.568 22.1556C106.633 22.1556 106.697 22.1373 106.752 22.1028C106.808 22.0682 106.852 22.0189 106.881 21.9604L109.002 17.064L109.229 16.5104C109.26 16.4494 109.307 16.3979 109.365 16.3614C109.423 16.3249 109.49 16.3046 109.559 16.3027H110.898C110.99 16.3027 111.079 16.3392 111.144 16.4041C111.209 16.469 111.246 16.557 111.246 16.6488V28.6562C111.246 28.7479 111.209 28.836 111.144 28.9009C111.079 28.9657 110.99 29.0022 110.898 29.0022H110.307C110.257 29.0006 110.209 28.9891 110.164 28.9683C110.119 28.9475 110.079 28.9178 110.046 28.8811L109.42 28.2063C109.366 28.1368 109.335 28.052 109.333 27.9641V21.5798C109.332 21.5411 109.317 21.504 109.292 21.4744C109.267 21.4448 109.233 21.4244 109.195 21.4165C109.157 21.4085 109.117 21.4134 109.082 21.4305C109.048 21.4475 109.019 21.4757 109.002 21.5106L107.507 24.3653C107.482 24.4229 107.441 24.4718 107.388 24.5058C107.336 24.5397 107.274 24.5571 107.211 24.5557H105.715C105.653 24.556 105.591 24.5402 105.536 24.5099C105.481 24.4796 105.435 24.4358 105.402 24.3826L103.855 21.5452C103.838 21.5103 103.81 21.4821 103.775 21.4651C103.74 21.448 103.7 21.4431 103.662 21.4511C103.624 21.459 103.59 21.4794 103.565 21.509C103.54 21.5386 103.525 21.5757 103.524 21.6144V27.9641C103.523 28.0554 103.485 28.1424 103.42 28.2063L102.742 28.8984C102.668 28.9608 102.577 28.9973 102.481 29.0022Z" fill="#CBDDBB"/>
+  </g>
+  <defs>
+    <clipPath id="clip0_1209_457">
+      <rect width="85.001" height="12.6867" fill="white" transform="translate(37.0225 16.3154)"/>
+    </clipPath>
+  </defs>
 </svg>
 </template>

diff --git a/components/blocks/text-block.vue b/components/blocks/text-block.vue
@@ -2,8 +2,7 @@
   <div
     :class="['block text-block', `align__${block.align ? block.align : 'left'}`]">
 
-    <h5 v-if="block.label" class="label">
-      <TriangleArrow v-if="block.showLabelIcon" class="icon" />
+    <h5 v-if="block.label" class="label h5">
       <span>{{ block.label }}</span>
     </h5>
 
@@ -25,16 +24,22 @@
     </div>
 
     <div v-if="block.ctas" class="button-row">
-      <div v-if="block.ctas && Array.isArray(block.ctas)">
+      <template v-if="block.ctas && Array.isArray(block.ctas)">
         <ButtonCta
           v-for="(cta, index) in ctaData"
           :key="index"
           :tag="cta.tag"
           :to="cta.to"
-          :theme="cta.theme">
+          :theme="cta.theme"
+          :disabled="cta.disabled">
           {{ cta.text }}
+          <span
+            v-if="cta.caption"
+            class="caption">
+            {{ cta.caption }}
+          </span>
         </ButtonCta>
-      </div>
+      </template>
     </div>
   </div>
 </template>
@@ -68,7 +73,7 @@ export default {
   computed: {
     ctaData () {
       return this.block.ctas.map((object) => {
-        return { ...object, disabled: object.url === undefined || object.url === '' }
+        return { ...object, disabled: object.to === undefined || object.to === '' }
       })
     }
   }

diff --git a/components/button/cta.vue b/components/button/cta.vue
@@ -81,10 +81,10 @@ const props = defineProps({
 
 <style lang="scss" scoped>
 // ///////////////////////////////////////////////////////////////////// General
-.button {
+:deep(.button) {
   white-space: nowrap;
   cursor: pointer;
-  &:not([disabled="true"]) {
+  &:not(.disabled) {
     &:hover {
       .button-content {
         @include transitionDefault;
@@ -95,10 +95,10 @@ const props = defineProps({
       @include focusBoxShadow;
     }
   }
-  &[disabled="true"] {
+  .disabled {
     box-shadow: none;
-    opacity: 0.5;
-    cursor: no-drop;
+    // opacity: 0.5;
+    cursor: default;
   }
 }
 
@@ -144,6 +144,7 @@ const props = defineProps({
   width: fit-content;
   filter: drop-shadow(0px 2px 14px rgba(255, 197, 130, 0.32));
   padding-left: toRem(25);
+  cursor: pointer;
   &:before {
     content: '';
     position: absolute;
@@ -217,6 +218,22 @@ const props = defineProps({
   border: 2px solid $sageGreen;
   .button-content {
     display: flex;
+  }
+}
+
+.theme__big-number {
+  display: block;
+  width: fit-content;
+  :deep(.button-content) {
+    @include h1;
+    @include gradientText;
+    .caption {
+      display: block;
+      @include h4;
+      -webkit-text-fill-color: $alto;
+      -moz-text-fill-color: $alto;
+      text-fill-color: $alto;
+    }
   }
 }
 </style>

diff --git a/pages/index.vue b/pages/index.vue
@@ -60,6 +60,7 @@ const sections = computed(() => {
 // //////////////////////////////////////////////////////////////////// Sections
 :deep(#hero-header) {
   position: relative;
+  padding-top: 4.0625rem;
   padding-bottom: toRem(100);
   &:before {
     content: '';
@@ -67,15 +68,24 @@ const sections = computed(() => {
     top: 0;
     left: 0;
     width: 100%;
-    height: calc(100% + toRem(840));
+    height: calc(100% + toRem(936));
     background-image: url('/images/ring-of-circular-cross-sections.png');
-    background-size: 2200px;
+    background-size: 2140px;
     background-position: center bottom;
     background-repeat: no-repeat;
   }
-  .text-block {
-    .description {
-      padding-right: toRem(50);
+  div[data-block-id="col_1"] {
+    .text-block {
+      .description {
+        padding-right: toRem(50);
+        margin-bottom: toRem(43);
+      }
+      .theme__caption {
+        margin-top: 1rem;
+        .button-content {
+          @include disclaimerText;
+        }
+      }
     }
   }
   .code-block,
@@ -109,6 +119,11 @@ const sections = computed(() => {
     background-size: 2200px;
     background-position: center bottom;
     background-repeat: no-repeat;
+  }
+  .text-block {
+    .button-row {
+      display: flex;
+    }
   }
 }
 </style>

diff --git a/components/site-header.vue b/components/site-header.vue
@@ -35,7 +35,8 @@
             :key="cta.component || cta.text"
             :tag="cta.tag"
             :target="cta.target"
-            :theme="cta.theme">
+            :theme="cta.theme"
+            :to="cta.to">
             <component
               :is="getCtaComponent(cta.icon)"
               v-if="cta.icon"

diff --git a/modules/zero-components/button/components/button.vue b/modules/zero-components/button/components/button.vue
@@ -5,7 +5,7 @@
     :href="tag === 'a' ? to : undefined"
     :disabled="disabled || loading"
     :target="target"
-    :class="['button', { selected }]"
+    :class="['button', { selected }, { disabled }]"
     @click="clickHandler($event)">
 
     <slot :loading="loading" />
